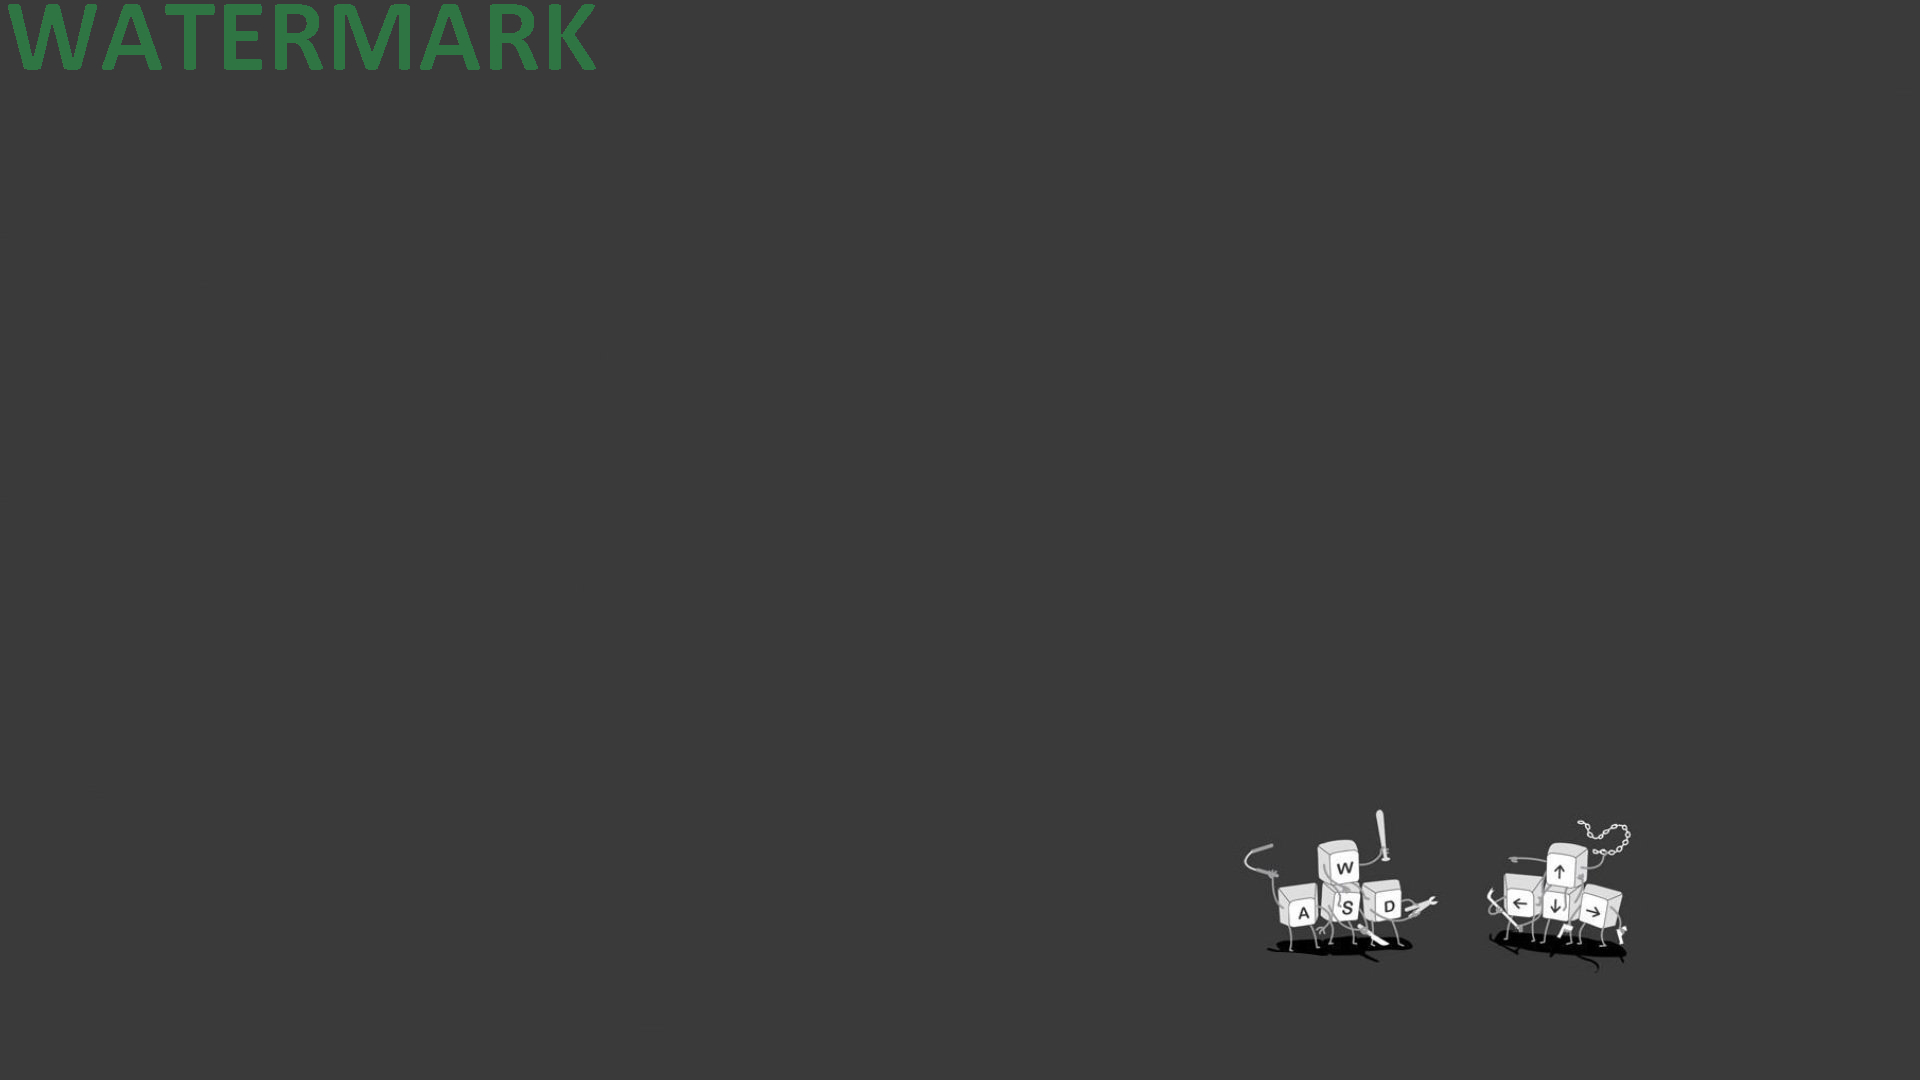
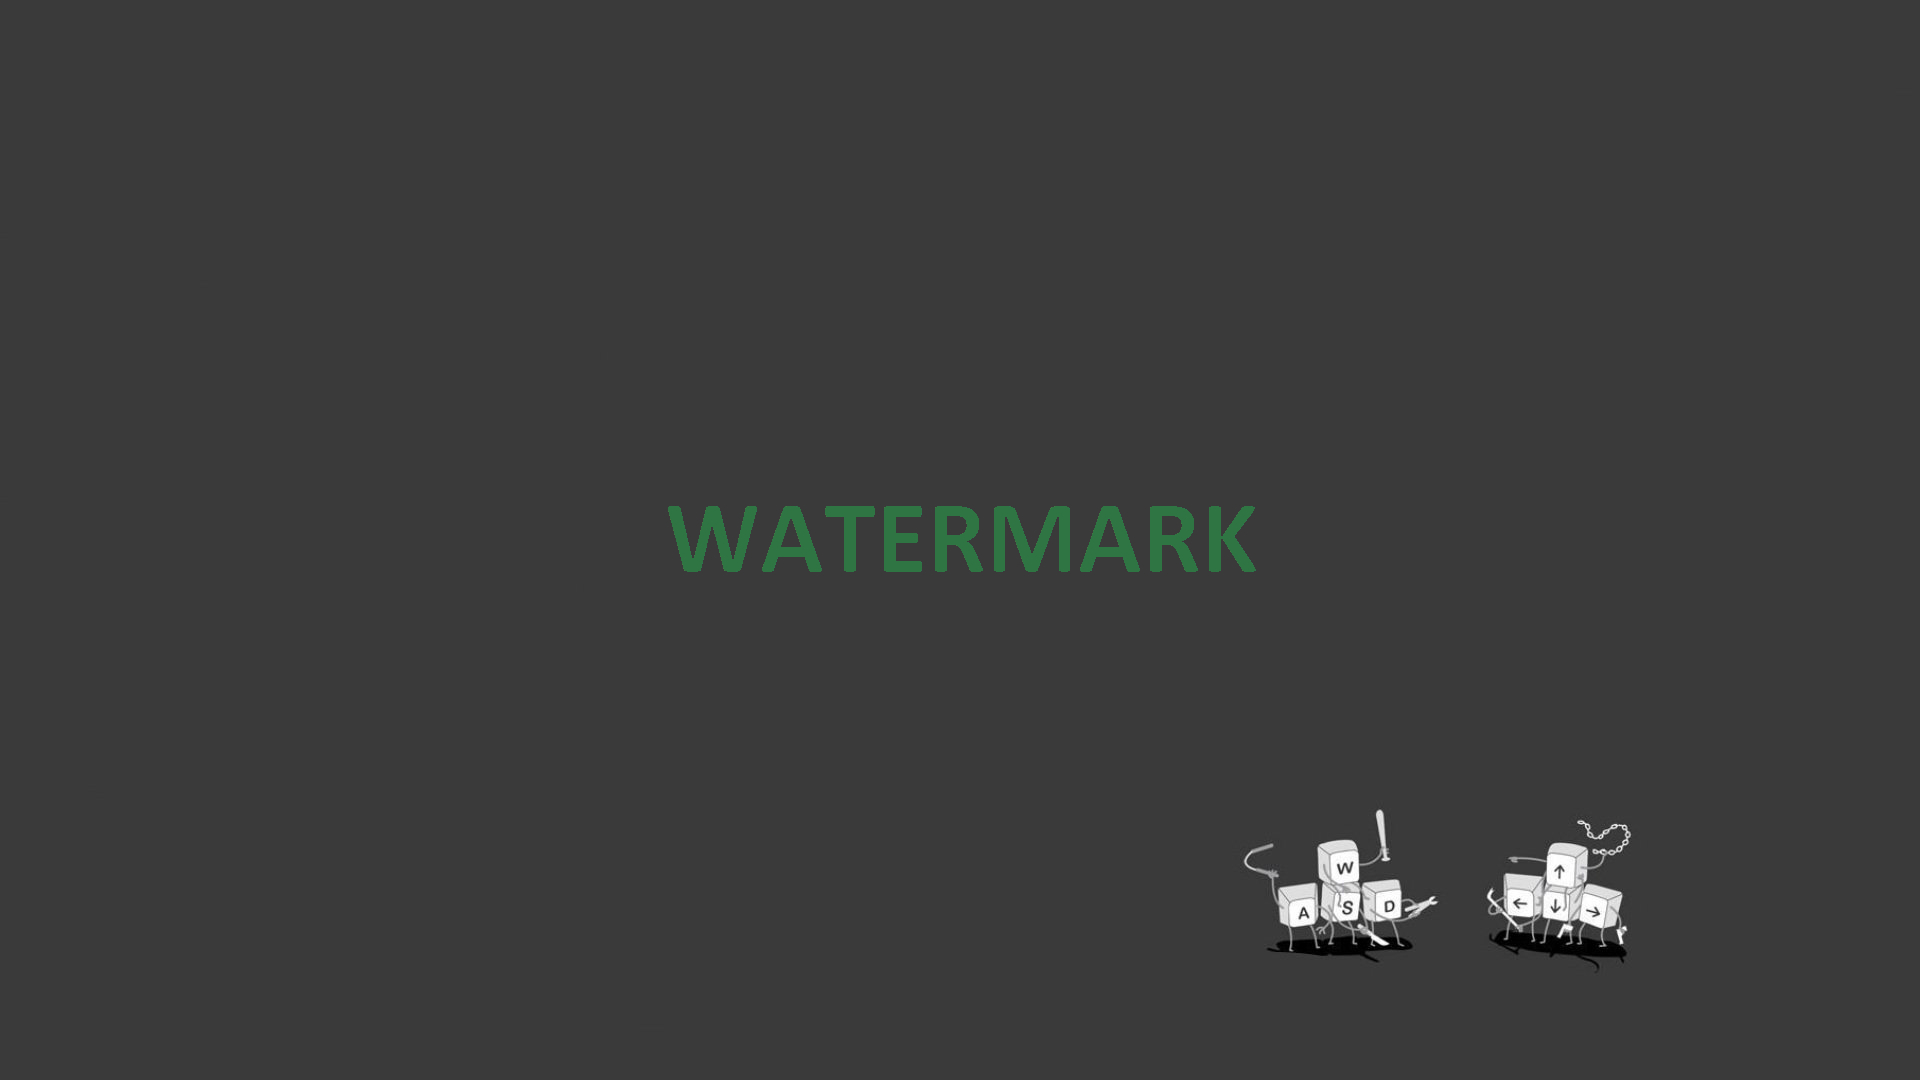
edit image watermark position

Changed region(s): [[0.3438, 0.4583, 0.6562, 0.55], [0.0, 0.0, 0.3125, 0.0611]]

diff --git a/app.js b/app.js
@@ -26,8 +26,10 @@ const addImageWatermarkToImage = async function(
 ) {
   const image = await Jimp.read(inputFile);
   const watermark = await Jimp.read(watermarkFile);
+  const x = image.getWidth() / 2 - watermark.getWidth() / 2;
+  const y = image.getHeight() / 2 - watermark.getHeight() / 2;
 
-  image.composite(watermark, 0, 0, {
+  image.composite(watermark, x, y, {
     mode: Jimp.BLEND_SOURCE_OVER,
     opacitySource: 0.5
   });
